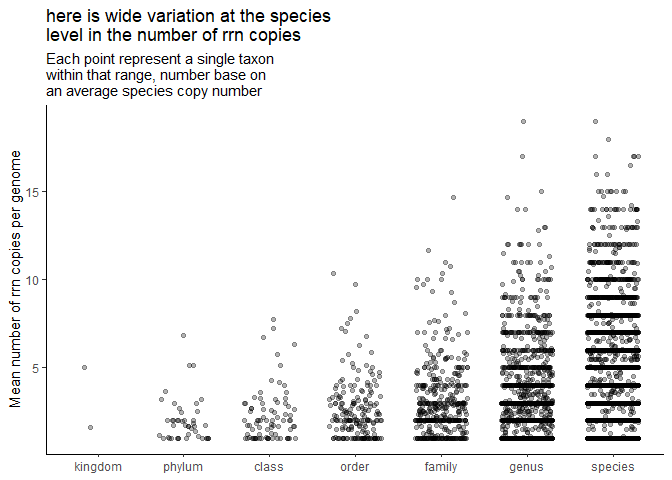
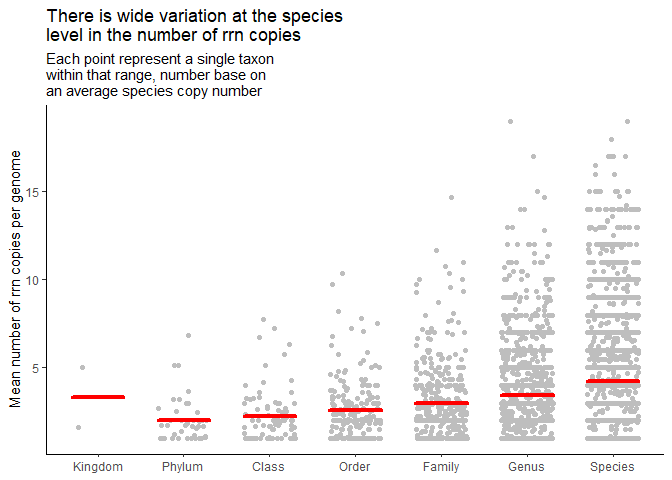
Add line segment to cloud of points to indicate average, closes #31

diff --git a/exploratory/2022-12-16-rrn-copy-number.md b/exploratory/2022-12-16-rrn-copy-number.md
@@ -45,17 +45,41 @@ rank_taxon_rrn <- metadata_asv %>%
     summarize(mean_rrns = mean(mean_rrns), .groups = "drop") %>%
     drop_na(rank)
 
+mean_of_means <- rank_taxon_rrn %>%
+    group_by(rank) %>%
+    summarize(mean_mean_rrns = mean(mean_rrns), .groups = "drop")
+
+
+jitter_width <- 0.3
+n_ranks <- nrow(mean_of_means)
+
 rank_taxon_rrn %>%
     ggplot(aes(x=rank, y=mean_rrns)) +
-    geom_jitter(width = 0.3, alpha=0.3) +
+    geom_jitter(width = jitter_width, color="gray") +
+    geom_segment(data=mean_of_means, aes(x=1:n_ranks - jitter_width, 
+                                         xend=1:n_ranks + jitter_width,
+                                         y=mean_mean_rrns, 
+                                         yend=mean_mean_rrns),
+               color="red", size=1.5, group=1,
+               lineend = "round",
+               inherit.aes = FALSE) +
     theme_classic() +
     labs(x=NULL, y="Mean number of rrn copies per genome",
-         title = "here is wide variation at the species\nlevel in the number of rrn copies",
-         subtitle = "Each point represent a single taxon\nwithin that range, number base on\nan average species copy number")
+         title = "There is wide variation at the species\nlevel in the number of rrn copies",
+         subtitle = "Each point represent a single taxon\nwithin that range, number base on\nan average species copy number") +
+    scale_x_discrete(breaks=c("kingdom", "phylum", "class",
+                                    "order", "family", "genus",
+                                    "species"),
+                     labels=c("Kingdom", "Phylum", "Class",
+                                    "Order", "Family", "Genus",
+                                    "Species"))
 ```
+
+    ## Warning: Using `size` aesthetic for lines was deprecated in ggplot2 3.4.0.
+    ## ℹ Please use `linewidth` instead.
 
 ![](2022-12-16-rrn-copy-number_files/figure-gfm/unnamed-chunk-2-1.png)<!-- -->
 
 Bacteria have more copies than Arhchea even after correcting for number
-of genomes per species, there is wide variation in the number of rrns
+of genomes per species, there is wide variation in the number of rrn
 operons per taxonomic group.
